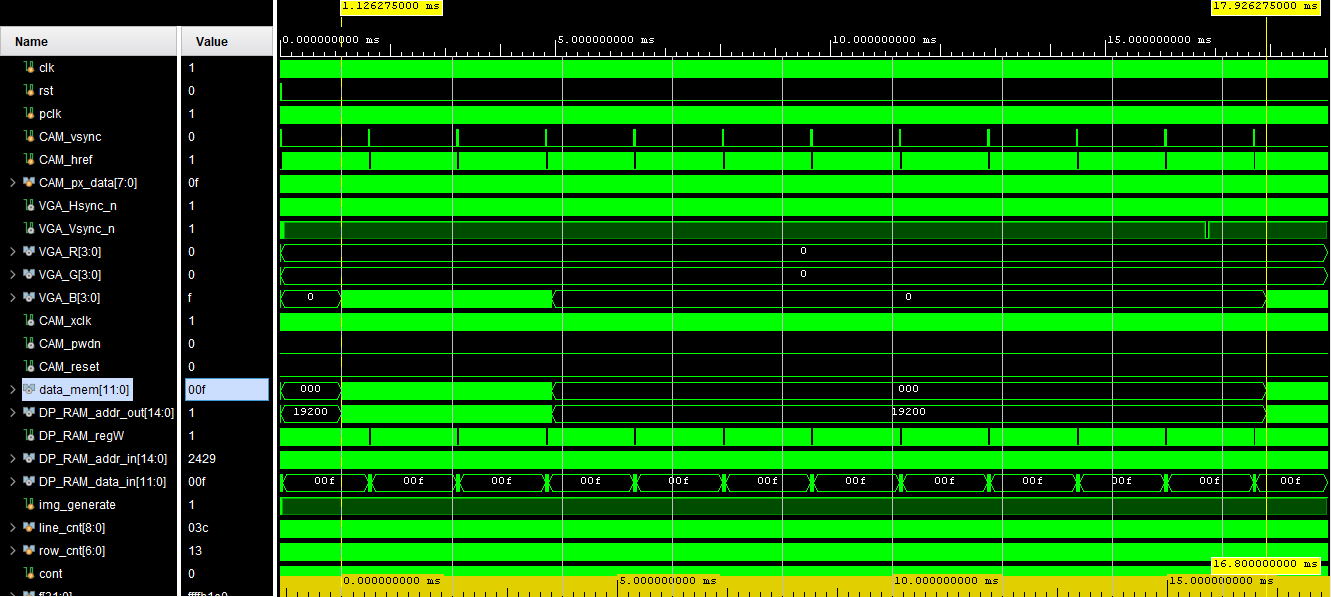
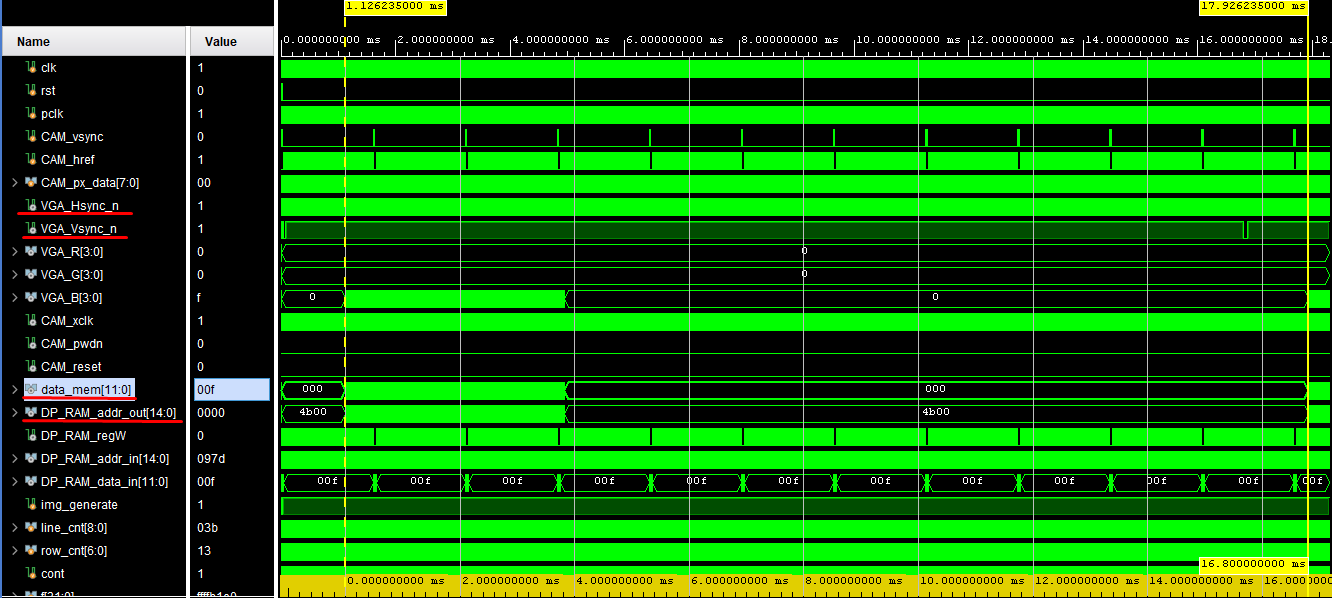
Descripción de adquisición de color azul generado y clk25M
- Se describió el funcionamiento de VGA_Driver mediante el color azul.
- clk25M agregado para describir el Funcionamiento de VGA

Changed region(s): [[0.0, 0.0603, 1.0, 1.0], [0.8933, 0.0, 1.0, 0.0302], [0.2464, 0.0, 0.3388, 0.0302]]

diff --git a/docs/README.md b/docs/README.md
@@ -239,12 +239,16 @@ Las señales amarillas de la Figura 1, se sustituyen por las señales rojas de l
 Durante la simulación fue necesario agregar las señales de salida para comprobar el correcto funcionamiento de los distintos módulos intanciados, estas son:
 
 ```verilog 
+    output wire clk25M, // 25MHz de la VGA
 	output wire [11:0] data_mem,
 	output wire [14:0]  DP_RAM_addr_in,
 	output wire [11:0] DP_RAM_data_in,
 	output reg [14:0] DP_RAM_addr_out,
 ``` 
+* `clk25M` reloj de 25 MHz para la VGA
+
 * `data_mem` es el pixel de 12 bits que el módulo `buffer_ram_dp` le transfiere al módulo `VGA_Driver.v` en la ubicación `DP_RAM_addr_out`.
+
 * Las señales `DP_RAM_data_in` y `DP_RAM_addr_in` son salidas del módulo `cam_read.v` que llevan los datos y las posiciones que utiliza el módulo `buffer_ram_dp.v` para almacenar temporalmente las capturas de datos.
 
 Se sustituyó:
@@ -664,7 +668,9 @@ Al simular 17 ms y usar [vga-simulator](https://ericeastwood.com/lab/vga-simulat
 
 ![colorAzul](./figs/colorAzul.png)
 
-La adquisición de datos del módulo `cam_read.v` se describe a continuación:
+
+#### Análisis en el módulo `cam_read.v`
+
 
 * De Reset activo `rst=1` a `INIT`
 
@@ -792,9 +798,58 @@ El estado actual es **INIT** y el estado siguente es **BYTE2**. En la siguiente 
 
 Se verificó en cada estado que el valor que tomaran las señales de salida fueran las indicadas. Además, sirvió para asesorarnos del correcto funcionamiente de la máquina de estados y mejorar el aumento de la dirección `DP_RAM_addr_in` colocándolo en el estado `BYTE1`.
 
-En color Azul se genera entre el intérvalo de tiempo comprendido por los cursores amarillos.
+#### Análisis en el módulo VGA_Driver
 
-![exp_cam_read12](./figs/exp_color_azul.png)
+Al simular 18.4 ms aproximadamente,se puede notar que la imagen azul en el formato VGA más los píxeles negros adicionales, se generan entre los intérvalo amarillos que muestran la Figura. La resta de los tiempos extremos es de 16.8 ms (17.926235-1.126235 [ms]), lo que coincide con los cálculos realizados.  
+
+![exp_color_azul](./figs/exp_color_azul.png)
+
+Nótese que `CAM_vsync` ha cambiado 11 veces de 0 a 1 y de 1 a 0, lo que indica que `cam_read` ha registrado 10 imágenes en formato QQVGA, pero VGA_Driver solo forma una imagen. Por otra parte, las señales de sincronización del `VGA_Driver` se pueden asimilar a la Figura que continua.
+
+![vga_timing](./figs/vga_timing.png)
+
+*Tomado de [7].* 
+ 
+ Las señales `VGA_Hsync_n` y `VGA_Vsync_n` permiten que halla la sincronización en la VGA. Despues que `VGA_Vsync_n` cambia de 1 a cero y de cero a 1, se indica que el siguiente pixel va a ocupar la posición 1 de la matriz VGA (640x480) más sus adiciones (800x525). Esto se indica en la siguiente Figura:
+
+![exp_color_azul2](./figs/exp_color_azul2.png)
+
+
+
+Se procece a analizar con más detalle la interacción de `VGA_Driver` con `buffer_ram_dp`. A partir de una dirrección que el módulo `VGA_Driver` envía a `buffer_ram_dp` representada por la señal `DP_RAM_addr_out`, éste último módulo debe enviar por medio de `data_mem` el pixel almacenado en dicha dirrección. El módulo `cam_read`, es el encargado de almacenar en el `buffer_ram_dp` los datos capturados por la cámara; entonces, las señales de salida del módulo `cam_read` de dirrección y de datos ( `DP_RAM_addr_in` y `DP_RAM_data_in`) deben coincidir con las señales de dirección y datos de VGA_Driver (`DP_RAM_addr_out` y `data_mem`). Esto se nota en la siguiente Figura de simulación.
+
+![exp_color_azul3](./figs/exp_color_azul3.png)
+
+En la posición 0 `cam_read` había escrito `00f` y en esa misma posición `VGA_controlador` lee ese mismo dato. Además, `VGA_R=4'h0`, `VGA_G=4'h0` y `VGA_B=4'hf` indicando que el color capturado es el azul. 
+
+Dado que la imagen que se guarda tiene un tamaño QQVGA(160x120),se necesita enviar información de tal modo que se complete el tamaño VGA más sus adiciones. Esto se logra haciendo que cada vez que se llega hasta el final de una linea vertical del formato QQVGA se asignen los restantes píxeles con un color predefinido en una dirrección específica. En este caso, se guardó en el módulo `buffer_ram_dp` el color negro en la posición 160x120=19200. La siguiente Figura muestra los casos donde esto se presenta.
+
+  ![exp_color_azul4](./figs/exp_color_azul4.png)
+
+Por ejemplo, en la posición 159 que la última de la primera fila se toma el dato `12'h00f`, en el siguiente posedge de clk25M se pasa a la posición 19200 donde está el dato `12'h000`. Esto se observa en la Figura de simulación: 
+
+![exp_color_azul5](./figs/exp_color_azul5.png)
+
+Después de terminar la primera línea vertical del tamaño 800x525, se regresa a la dirección 160. Esta posición corresponde primera posición de la segunda fila almacenada en el formato QQVGA por el módulo `cam_read` esta contiene el dato `12'h00f`, como se nota en la Figura que continua.
+
+![exp_color_azul6](./figs/exp_color_azul6.png)
+
+Cuando `DP_RAM_addr_out` llega hasta la posición 19199 que corresponde a última que se ha almacenado en el formato QQVGA, en el siguiente posedge de `clk25M` toma el valor de 19200 que contiene el color negro. Luego, se asigna el color negro hasta completar el tamaño 800x525.
+
+![exp_color_azul7](./figs/exp_color_azul7.png)
+
+Para tomarse una nueva imagen,`DP_RAM_addr_out` toma el valor de 0 y se realiza el mismo proceso que se ha venido describiendo.
+
+![exp_color_azul8](./figs/exp_color_azul8.png)
+
+
+
+
+
+
+
+
+
 
 ***
 
@@ -848,3 +903,5 @@ sensor de imagen OV7670. Available [Online] https://repositorio.upct.es/bitstrea
 [5] Recuperado de http://web.mit.edu/6.111/www/f2016/tools/OV7670_2006.pdf
 
 [6] Recuperado de https://www.xilinx.com/support/documentation/ip_documentation/clk_wiz/v6_0/pg065-clk-wiz.pdf
+
+[7] Recuperado de https://www.avrfreaks.net/forum/vga-hsync-vsync
